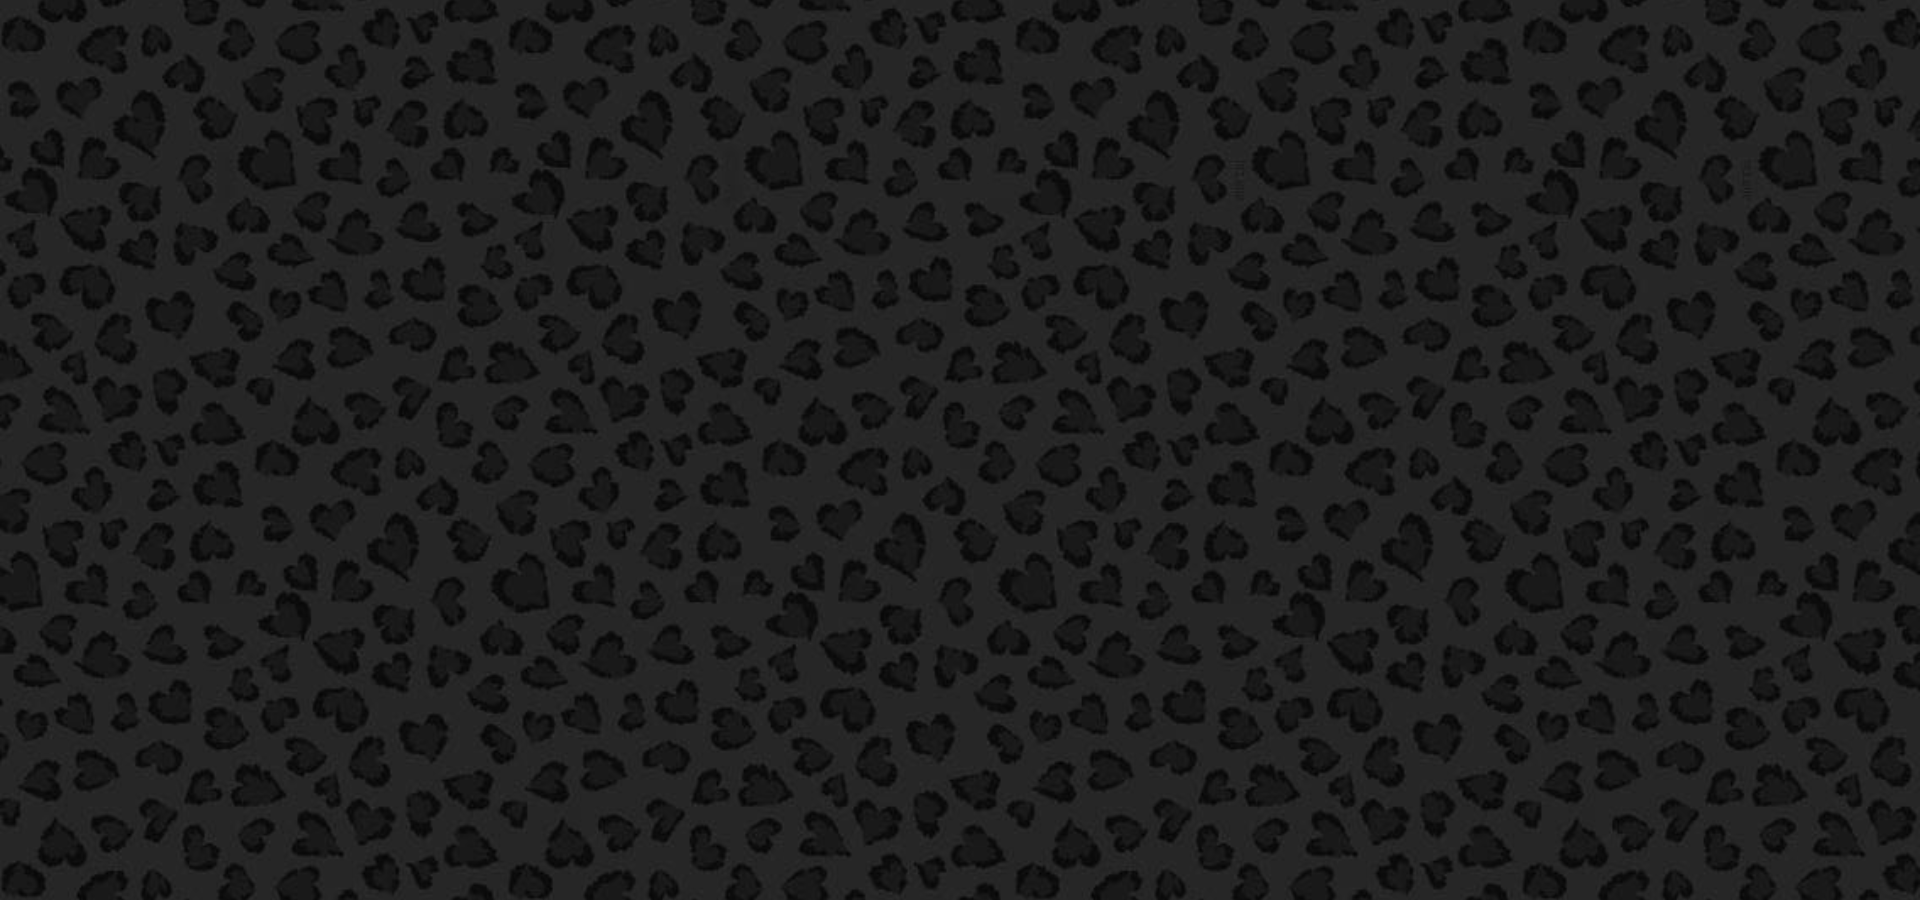
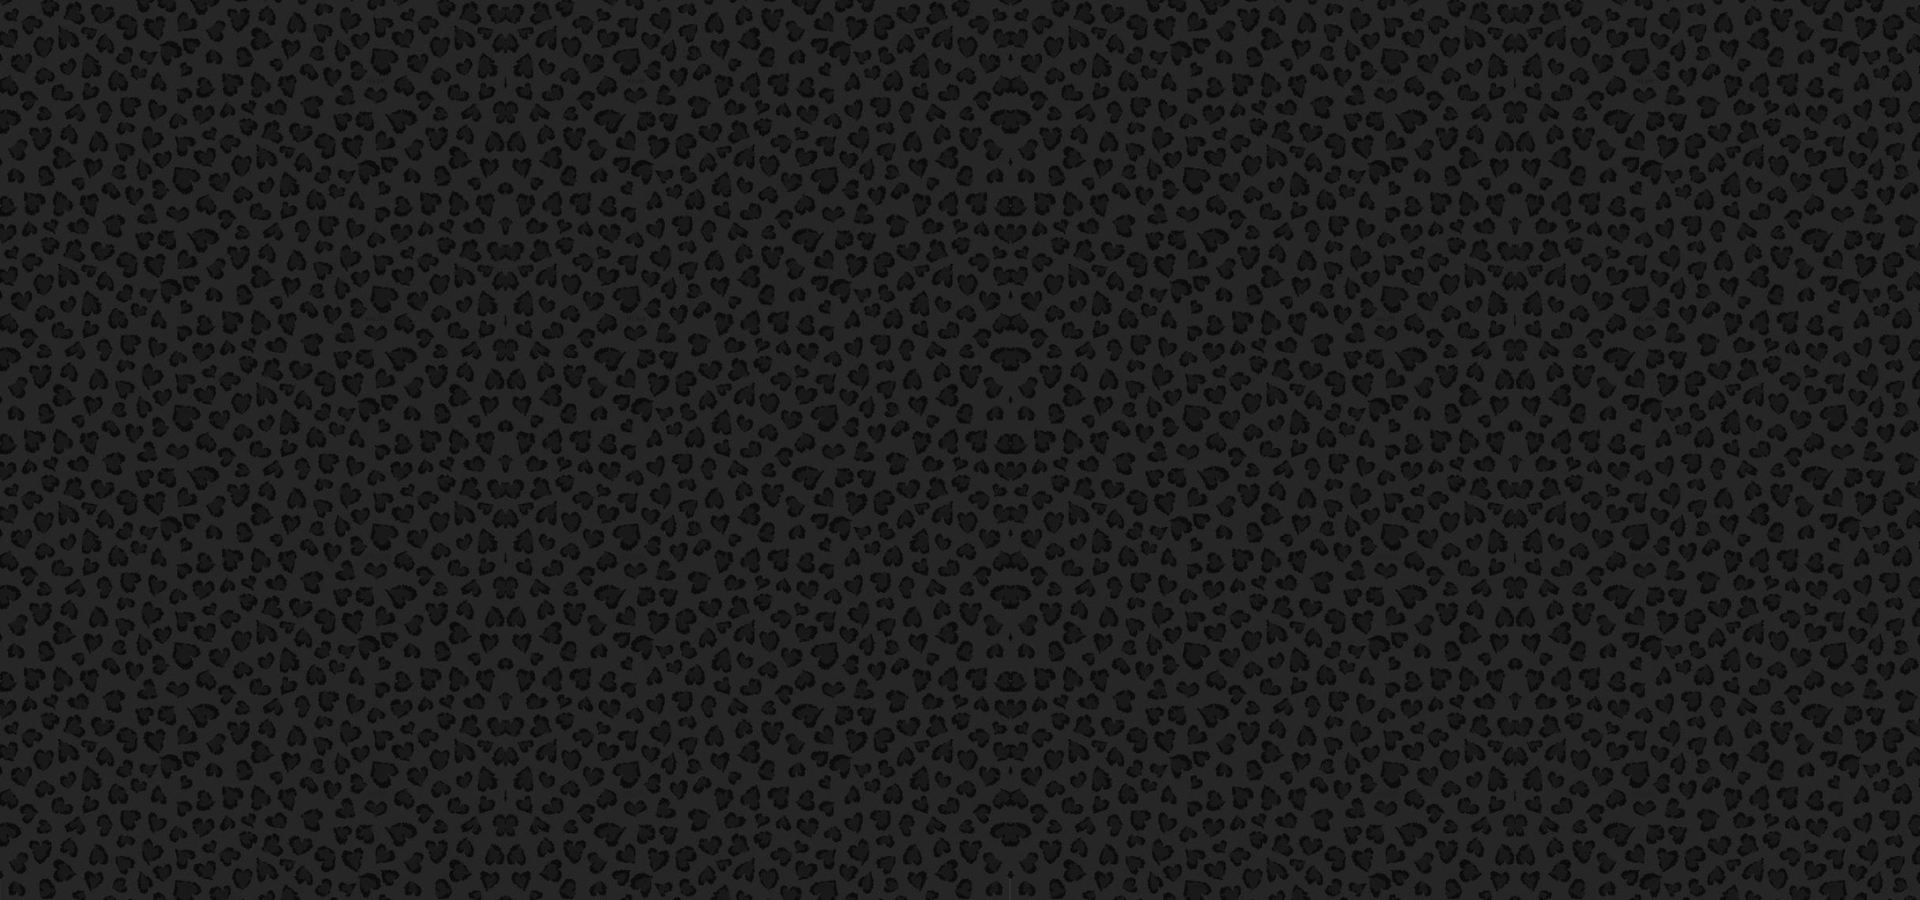
another edit commit

diff --git a/index.html b/index.html
@@ -138,7 +138,7 @@
                     </a>
                 </div>
                 <div class="sidebar-logo mb-30">
-                    <a href="#index"><img width="80px" src="assets/images/panther/plogo.png" alt=""></a>
+                    <a href="#index"><img width="80px" src="assets/images/panther/plogo2.png" alt=""></a>
                 </div>
                 <ul class="nav-menu">
                 <li class="current-menu-item"><a href="#index">Home</a>
@@ -218,7 +218,7 @@
                         <div class="col-md-6">
                             <div class="gamfi_v2_hero_right">
                                 <div class="gamfi_v2_hero_rocket">
-                                    <img src="assets/images/panther/plogo.png" alt="Rocket Img" class="Img-fluid RedRocketImg wow fadeInUp" />
+                                    <img width="900px" src="assets/images/panther/home.png" alt="Rocket Img" class="Img-fluid RedRocketImg wow fadeInUp" />
                                     <span class="rocketshadow1"><img src="assets/images/homeV2/rocketStar.svg" alt="" class="img-fluid" /></span>
                                     <span class="rocketshadow2"><img src="assets/images/homeV2/rocketStar.svg" alt="" class="img-fluid" /></span>
                                     <span class="rocketshadow3"><img src="assets/images/homeV2/rocketStar.svg" alt="" class="img-fluid" /></span>
@@ -378,8 +378,8 @@
                                     <img width="100px" src="assets/images/panther/neko2.png" alt="img" class="img-fluid" />
                                 </div>
                                 <div class="how_to_participate_right_card_text">
-                                    <h4>Content1</h4>
-                                    <p>Lorem ipsum dolor sit amet, consectetur adipisicing elit. Modi obcaecati, expedita similique sunt deleniti porro perferendis commodi consequuntur maxime atque iure autem nostrum id blanditiis, vel minima architecto repellendus illo!</p>
+                                    <h4>COMMUNITY</h4>
+                                    <p>From the start, Ethereum was built as a decentralized global platform powered by blockchain technology. It is has recently grown and is most commonly known for its native cryptocurrency, Ether (ETH), which the world renowned Shiba Inu was built on. Pantha will follow the same path, its initiatives will be community-led and will result in additional value being brought into Pantha Neko and its Pantha ecosystems. Everyone is welcome to join the community and help it grow!</p>
                                 </div>
                             </div>
                             <div class="how_to_participate_right_card how_to_participate_right_card2 wow fadeInRight" data-wow-delay="0.3s" data-wow-duration="0.5s">
@@ -387,8 +387,8 @@
                                     <img width="100px" src="assets/images/panther/neko2.png" alt="img" class="img-fluid" />
                                 </div>
                                 <div class="how_to_participate_right_card_text">
-                                    <h4>Content2</h4>
-                                    <p>Lorem ipsum, dolor sit amet consectetur adipisicing elit. Vero, praesentium? Quibusdam, odio animi! Fugiat nobis ipsa adipisci soluta autem expedita molestias eum labore, maxime excepturi esse porro blanditiis unde atque.</p>
+                                    <h4>DEDICATION</h4>
+                                    <p>Dedication Like the legendary Shiba Inu, Pantha Neko is here to be a guide and companion for every single community member as they explore the Neko universe. Pantha is a loyal mascot for the successful Japanese Inu's , as we carve the path for the first Neko's, this will ignite and introduce new and existing Shiba Inu participants to the blockchains innovations with a warm smile and a helping hand of the new Neko era.</p>
                                 </div>
                             </div>
                             <div class="how_to_participate_right_card how_to_participate_right_card3 wow fadeInRight" data-wow-delay="0.4s" data-wow-duration="0.6s">
@@ -396,8 +396,8 @@
                                     <img width="100px" src="assets/images/panther/neko2.png" alt="img" class="img-fluid" />
                                 </div>
                                 <div class="how_to_participate_right_card_text">
-                                    <h4>Content3</h4>
-                                    <p>Lorem ipsum dolor sit amet consectetur, adipisicing elit. Voluptatem libero earum maiores, necessitatibus deleniti nisi iusto tempora aperiam ipsam facilis quia omnis possimus animi quo iste quis qui unde. Veritatis?</p>
+                                    <h4>FUN</h4>
+                                    <p>Blockchain and cryptocurrency technology can be daunting and scary, but it doesn’t have to be! Pantha will show everyone that crypto can be a space for creativity, collaboration, and connection. Whether you're an expert shiller or a master of the GIF creators, Pantha is a place where people’s talents and skills can shine, and where everyone has something to enjoy!</p>
                                 </div>
                             </div>
                         </div>
@@ -408,7 +408,7 @@
                 </div>
             </div>
             <div class="moon_img_bg">
-                <img src="assets/images/bg/project-bg.png" alt="img" class="img-fluid" />
+                <img src="assets/images/bg/team-bg.jpg" alt="img" class="img-fluid" />
             </div>
         </div>
         
@@ -429,15 +429,15 @@
                 <div class="sec-inner align-items-center mb-30">
                     <div class="sec-heading">
                         <div class="sub-inner mb-15">
-                            <span class="sub-title">FEATURES</span>
-                            <img class="heading-left-image" src="assets/images/icons/steps.png" alt="Steps-Image" />
+                            <!-- <span class="sub-title">FEATURES</span>
+                            <img class="heading-left-image" src="assets/images/icons/steps.png" alt="Steps-Image" /> -->
                         </div>
-                        <h2 class="title">Key Points</h2>
+                        <!-- <h2 class="title">Key Points</h2> -->
                     </div>
                     <div class="key_points_content">
                         <div class="row">
                             <div class="col-sm-4">
-                                <div class="key_points_items wow fadeInUp" data-wow-delay="0.2s" data-wow-duration="0.4s">
+                                <!-- <div class="key_points_items wow fadeInUp" data-wow-delay="0.2s" data-wow-duration="0.4s">
                                     <div class="key_points_item_img">
                                         <img src="assets/images/icons/Key_icon1.png" alt="icon" class="img-fluid" />
                                     </div>
@@ -445,10 +445,10 @@
                                         <h3 class="key_points_item_text">COMMUNITY</h3>
                                         <p>From the start, Ethereum was built as a decentralized global platform powered by blockchain technology. It is has recently grown and is most commonly known for its native cryptocurrency, Ether (ETH), which the world renowned Shiba Inu was built on. Pantha will follow the same path, its initiatives will be community-led and will result in additional value being brought into Pantha Neko and its Pantha ecosystems. Everyone is welcome to join the community and help it grow! </p>
                                     </div>
-                                </div>
+                                </div> -->
                             </div>
                             <div class="col-sm-4">
-                                <div class="key_points_items wow fadeInUp" data-wow-delay="0.3s" data-wow-duration="0.5s">
+                                <!-- <div class="key_points_items wow fadeInUp" data-wow-delay="0.3s" data-wow-duration="0.5s">
                                     <div class="key_points_item_img">
                                         <img src="assets/images/icons/Key_icon1.png" alt="icon" class="img-fluid" />
                                     </div>
@@ -457,11 +457,11 @@
                                         <p>Dedication
                                             Like the legendary Shiba Inu, Pantha Neko is here to be a guide and companion for every single community member as they explore the Neko universe. Pantha is a loyal mascot for the successful Japanese Inu's , as we carve the path for the first Neko's, this will ignite and introduce new and existing Shiba Inu participants to the blockchains innovations with a warm smile and a helping hand of the new Neko era.</p>
                                     </div>
-                                </div>
+                                </div> -->
                             </div>
                             
                             <div class="col-sm-4">
-                                <div class="key_points_items wow fadeInUp" data-wow-delay="0.5s" data-wow-duration="0.7s">
+                                <!-- <div class="key_points_items wow fadeInUp" data-wow-delay="0.5s" data-wow-duration="0.7s">
                                     <div class="key_points_item_img">
                                         <img src="assets/images/icons/Key_icon1.png" alt="icon" class="img-fluid" />
                                     </div>
@@ -469,7 +469,7 @@
                                         <h3 class="key_points_item_text">FUN</h3>
                                         <p>Blockchain and cryptocurrency technology can be daunting and scary, but it doesn’t have to be! Pantha will show everyone that crypto can be a space for creativity, collaboration, and connection. Whether you're an expert shiller or a master of the GIF creators, Pantha is a place where people’s talents and skills can shine, and where everyone has something to enjoy!</p>
                                     </div>
-                                </div>
+                                </div> -->
                             </div>
                         </div>
                     </div>

diff --git a/assets/css/style.css b/assets/css/style.css
@@ -1491,10 +1491,9 @@ body .modal-backdrop {
 
 .gamfi_header_v2 {
   min-height: 800px;
-  background: url("../images/bg/bgV2.png");
+  background: url("../images/bg/bg.jpg");
   background-position: center center;
-  background-repeat: no-repeat;
-  background-size: cover;
+  background-size: contain;
 }
 
 .gamfi_v2_hero_sect {
@@ -2099,7 +2098,7 @@ body .modal-backdrop {
     background: url(../images/bg/project-bg.jpg);
     */
   background: #090A1A;
-  padding-top: 115px;
+  padding-top: -100px;
   padding-bottom: 105px;
 }
 
@@ -2110,11 +2109,11 @@ body .modal-backdrop {
 
 .key_points_section .key_points_bg {
   position: absolute;
-  background: url("../images/bg/project-bg.png");
+  background: url("../images/bg/team-bg.jpg");
   background-repeat: no-repeat;
   background-size: cover;
   background-position: center center;
-  height: 1200px;
+  height: 777px;
   width: 100%;
   display: -webkit-box;
   display: -ms-flexbox;
@@ -2252,7 +2251,7 @@ body .modal-backdrop {
 
 .key_points_section {
   background: rgb(13 13 22);
-  padding-top: 115px;
+  padding-top: -84px;
   padding-bottom: 105px;
   position: relative;
 }
@@ -2535,10 +2534,10 @@ body .modal-backdrop {
 }
 
 .multi_chain_support_sect {
-  background: url("../images/bg/bgV2.png");
+  background: url("../images/bg/bg.jpg");
   background-position: center center;
   background-repeat: no-repeat;
-  background-size: cover;
+  object-fit:  cover;
   padding-top: 0px;
   padding-bottom: 105px;
 }
@@ -3460,11 +3459,11 @@ body .modal-backdrop {
       -ms-flex-pack: start;
           justify-content: flex-start;
   min-height: 186px;
-  padding: 35px 50px;
+  padding: 35px 25px;
   background: rgba(22, 2, 50, 0.7);
   -webkit-backdrop-filter: blur(10px);
           backdrop-filter: blur(10px);
-  margin-bottom: 20px;
+  margin-bottom: 15px;
 }
 
 .how_to_participate_right_card_number {
@@ -3491,7 +3490,8 @@ body .modal-backdrop {
   font-family: Inter;
   font-style: normal;
   font-weight: normal;
-  font-size: 16px;
+  font-size: 14px;
+  text-align: justify;
   line-height: 26px;
   margin-bottom: 0px;
   color: rgba(255, 255, 255, 0.7);
@@ -9393,10 +9393,10 @@ div.latest-item .hover-shape-bg {
 }
 
 .tokenomics_section {
-  background: url("../images/bg/bgV2.png");
+  background: url("../images/bg/tokenbg.jpg");
   background-position: center center;
-  background-repeat: no-repeat;
   background-size: cover;
+  background-repeat: no-repeat;
   padding-top: 0px;
   padding-bottom: 105px;
 }
@@ -13867,7 +13867,7 @@ div.latest-item .hover-shape-bg {
   background: url("../images/bg/breadcrumbs-bg.jpg");
   background-position: center;
   background-repeat: no-repeat;
-  background-size: cover;
+  background-size: contain;
   padding: 80px 0 70px;
 }
 
